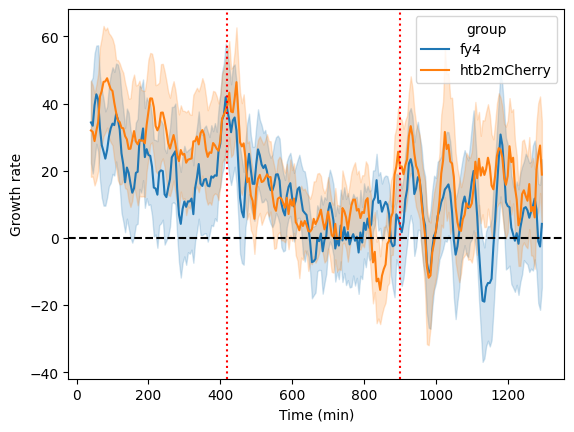
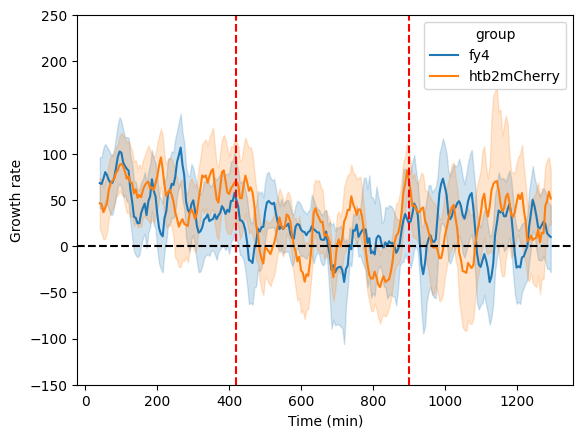
fix(biology): growth rate is sum of parents and buds
WHY IS THIS CHANGE NEEDED?:
- this is the 'proper' calculation and accounts for how parent cell
  volume hardly changes

HOW DOES THE CHANGE SOLVE THE PROBLEM?:
- add together
  ~postprocessing/dsignal/extraction_general_None_volume~ (parents) and
  ~postprocessing/dsignal/postprocessing_bud_metric_extraction_general_None_volume~ (buds),
  using the common index of ~extraction/Flavin_bgsub/max/mean~ to select cells.

REFERENCES:
- PS feedback

diff --git a/chapter_biology/chapter_biology.tex b/chapter_biology/chapter_biology.tex
@@ -240,7 +240,7 @@ This abrupt induction of starvation is similar to experiments described by \text
 
   \caption{
     \textbf{(\ref{fig:biology-starvation-gr})}
-    Mean growth rate of parent cells, derived from estimated changes in volume (shading: 95\% confidence intervals) and
+    Mean growth rate, derived from changes in the sum of estimated parent cell and bud volumes (shading: 95\% confidence intervals) and
     \textbf{(\ref{fig:biology-starvation-cumul})}
     mean cumulative number of budding events per cell (shading: confidence intervals from bootstrapping, $n=30$)
     of FY4 (blue) and HTB2::mCherry (orange) strains over time during the glucose-starvation experiment.
@@ -607,7 +607,7 @@ Fig.\ ~\ref{fig:biology-pyruvate-single} shows that the longer cell division cyc
   \end{subfigure}
 
   \caption{
-    Mean growth rate of parent cells, derived from estimated changes in volume (shading: 95\% confidence intervals) of FY4 (blue) and HTB2::mCherry (orange) strains over time, for \textbf{(\ref{fig:biology-lowglc-gr})} the glucose-limiting condition (\SI{0.010}{\gram~\litre^{-1}}) and \textbf{(\ref{fig:biology-highglc-gr})} the high glucose condition (\SI{20}{\gram~\litre^{-1}}).
+    Mean growth rate, derived from changes in the sum of estimated parent cell and bud volumes (shading: 95\% confidence intervals) of FY4 (blue) and HTB2::mCherry (orange) strains over time, for \textbf{(\ref{fig:biology-lowglc-gr})} the glucose-limiting condition (\SI{0.010}{\gram~\litre^{-1}}) and \textbf{(\ref{fig:biology-highglc-gr})} the high glucose condition (\SI{20}{\gram~\litre^{-1}}).
     Similarly, the mean cumulative number of budding events per cell (shading: confidence intervals from bootstrapping, $n=30$), of the same strains for \textbf{(\ref{fig:biology-lowglc-cumul})} the glucose-limiting condition and \textbf{(\ref{fig:biology-highglc-cumul})} the high glucose condition.
   }
   \label{fig:biology-lowglc-gr-budprob}
@@ -732,7 +732,7 @@ In addition, the distribution of signal-to-noise ratios of time series before po
 
   \caption{
     \textbf{(\ref{fig:biology-kdeficient-gr})}
-    Mean growth rate of parent cells, derived from estimated changes in volume (shading: 95\% confidence intervals) and
+    Mean growth rate, derived from changes in the sum of estimated parent cell and bud volumes (shading: 95\% confidence intervals) and
     \textbf{(\ref{fig:biology-kdeficient-cumul})}
     mean cumulative number of budding events per cell (shading: confidence intervals from bootstrapping, $n=30$)
     of FY4 (blue) and HTB2::mCherry (orange) strains over time during the potassium-deficient experiment.
